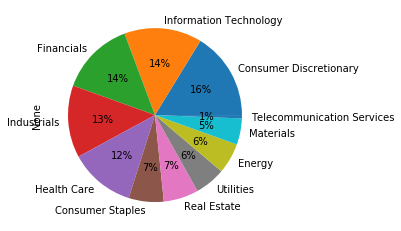
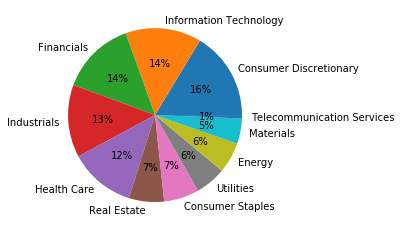
Edited conclusion and analysis method

diff --git a/_posts/2020-03-28-Sentiment Analysis as a Trading Indicator.md b/_posts/2020-03-28-Sentiment Analysis as a Trading Indicator.md
@@ -19,7 +19,6 @@ Let's begin by getting some of the imports we need:
 ```python
 import pandas as pd
 import matplotlib.pyplot as plt
-from datetime import datetime
 ```
 
 The S&P data is in a .csv file, so we can import it and take a look using Pandas quite easily:
@@ -31,7 +30,7 @@ print(sp.shape)
 sp.head(5)
 ```
 
-    (492, 3)
+    (489, 3)
 
 
 
@@ -106,35 +105,37 @@ Let's see what sectors comprise the S&P:
 print(sp['Sector'].value_counts(normalize=True))
 ```
 
-    Consumer Discretionary        0.162602
-    Information Technology        0.144309
-    Financials                    0.138211
-    Industrials                   0.134146
-    Health Care                   0.121951
-    Consumer Staples              0.065041
-    Real Estate                   0.065041
-    Utilities                     0.056911
-    Energy                        0.056911
-    Materials                     0.048780
-    Telecommunication Services    0.006098
+    Consumer Discretionary        0.163599
+    Information Technology        0.141104
+    Financials                    0.139059
+    Industrials                   0.134969
+    Health Care                   0.122699
+    Real Estate                   0.065440
+    Consumer Staples              0.065440
+    Utilities                     0.057260
+    Energy                        0.057260
+    Materials                     0.047035
+    Telecommunication Services    0.006135
     Name: Sector, dtype: float64
 
 
 
 ```python
 sector_counts = pd.value_counts(sp['Sector'].values, sort=True)
-sector_counts.plot.pie(autopct='%.0f%%')
+sector_pie = sector_counts.plot.pie(autopct='%.0f%%')
+sector_pie.set_ylabel('')
 ```
 
 
 
 
-    <matplotlib.axes._subplots.AxesSubplot at 0x7fac57fe2bd0>
+    Text(0, 0.5, '')
 
 
 
 
-![](/images/output_8_1.png)
+![png](/images/output_8_1.png)
+
 
 I've normalised the values and we can see that consumer discretionary based companies are leading (at the time of this data), with 16% of the S&P 500 being companies in that sector.
 
@@ -468,18 +469,18 @@ def determineSentiment(title):
     pol_score['news_text'] = title
     results.append(pol_score)
 
-    ## Check the compound result of the analysis,
-    ## the tolerances have been manually skewed to negative by me
+    ## Check the compound result of the analysis
+    ## Tolerances are near mirrors of those used in academia (though more sensitive to negativity)
     compound = results[0]['compound']
     if compound >= 0.05:
         return 'Positive'
-    elif compound >= 0.00 and compound < 0.05:
+    elif compound >= -0.02 and compound < 0.05:
         return 'Neutral'
-    elif compound < -0.00:
+    elif compound < -0.02:
         return 'Negative'
 ```
 
-### Now let's pass in some titles and see how it classifies them:
+Now let's pass in some titles and see how it classifies them:
 
 
 ```python
@@ -501,8 +502,8 @@ print("Title: \"{}\" has sentiment: {} \n".format(negative_title, determineSenti
     
 
 
-__As you can see from the three above examples, it is capable of identifying particularly clear sentiment.
-However, it isn't too good with the nuances of financial language as it is not context aware:__
+As you can see from the three above examples, it is capable of identifying particularly clear sentiment.
+However, it isn't too good with the nuances of financial language as it is not context aware:
 
 
 ```python
@@ -513,7 +514,7 @@ print("Title: \"{}\" has sentiment: {}".format(unclear_title, determineSentiment
     Title: "The Gap Inc. (GPS): These Hedge Funds Caught Flat-Footed" has sentiment: Neutral
 
 
-### Now let's modify our sentiment analysis function to begin checking batches of news:
+Now let's modify our sentiment analysis function to begin checking batches of news:
 
 
 ```python
@@ -536,7 +537,7 @@ def determineSentiment(title):
     return results[0]['compound']
 ```
 
-__And let's create a function to compile the sentiment of all news for a given ticker:__
+And let's create a function to compile the sentiment of all news for a given ticker:
 
 
 ```python
@@ -551,6 +552,7 @@ def generateSentimentDict(ticker):
     for article in articles:
         sentiment = determineSentiment(article)
         
+        #if sentiment >= 0.05 or sentiment <= -0.05:
         # Determine the date that the article was published on
         row_with_date = news_info.loc[news_info['title'] == article]
         date = row_with_date['date'][0]
@@ -564,16 +566,8 @@ def generateSentimentDict(ticker):
     return daily_sentiment
 ```
 
-## Defining and Backtesting the Strategy
-Our initial strategy will be simple and non-robust:
-
-1. If the news of the _day_ is positive: go long
-2. If the news of the _day_ is negative: go short
-3. If the news of the _day_ is neutral: go short
-
-Due to the constraints of our news source, we can only do a _very_ short backtest of ~30 days.
-
-It's worth noting that any trade is executed on the next candle's open as opposed to the current candle's close. This is to prevent any accidental trading on information that shouldn't yet be visible.
+## Investigating the Trends
+Now it's time to gather all of our combined data and begin to plot and investigate things further.
 
 First let's generate a dictionary of the news sentiment for the last month in regards to the Boeing Company (BA):
 
@@ -586,129 +580,132 @@ print(boeing_sentiment)
     {'2020-03-10': 0.5574, '2020-03-17': -0.3182, '2020-03-23': -1.0513, '2020-03-11': 0.5994, '2020-03-06': 0.0, '2020-03-12': -0.296, '2020-03-18': -0.6249, '2020-03-21': 0.6597, '2020-03-03': 0.296, '2020-03-20': 0.296, '2020-03-15': 0.0, '2020-03-16': 0.0, '2020-03-24': 0.0, '2020-03-04': -0.0258, '2020-03-05': 0.0, '2020-03-26': 0.34, '2020-03-25': 0.1796, '2020-02-27': 0.0}
 
 
-We'll be using the above data in our backtest below:
+We can now plot the sentiment as a time series:
 
 
 ```python
-from backtesting import Backtest, Strategy
+# Sort items from dict in ascending time and plot
+date,sentiment = zip(*sorted(boeing_sentiment.items()))
+plt.xticks(rotation=45)
+plt.plot(date,sentiment)
+```
+
+
+
+
+    [<matplotlib.lines.Line2D at 0x7f73eb37d7d0>]
+
+
+
+
+![png](/images/output_34_1.png)
+
+
+Let's plot Boeing's share price:
+
+
+```python
 from datetime import datetime
 
-class SentimentStrategy(Strategy):
-    daily_sentiment = {'2020-03-10': 0.5574, '2020-03-17': -0.3182, '2020-03-23': -1.0513, '2020-03-11': 0.5994, '2020-03-06': 0.0, '2020-03-12': -0.296, '2020-03-18': -0.6249, '2020-03-21': 0.6597, '2020-03-03': 0.296, '2020-03-20': 0.296, '2020-03-15': 0.0, '2020-03-16': 0.0, '2020-03-24': 0.0, '2020-03-04': -0.0258, '2020-03-05': 0.0, '2020-03-26': 0.34, '2020-03-25': 0.1796, '2020-02-27': 0.0}
-    
-    def init(self):
-        self.day_sentiment = daily_sentiment.get(datetime.today().strftime('%Y-%m-%d'), 0.00)
-
-    def next(self):
-        if self.day_sentiment >= 0.05:
-            self.buy()
-        elif self.day_sentiment >= 0.00 and self.day_sentiment < 0.05:
-            self.sell()
-        elif self.day_sentiment < -0.00:
-            self.sell()
-
 # Pull in our 20 day pricing information earlier compiled
-conn = sqlite3.connect('equities.db')
-stock_info = pd.read_sql_query("SELECT * FROM equities_daily", conn)
+stock_info = pd.read_sql_query("SELECT date, close FROM equities_daily WHERE ticker == 'BA'", eq_db)
 
-# Convert the date to the datetime format for backtesting.py compatibility
+# Convert the date to the datetime format for plotting
 stock_info['date'] = pd.to_datetime(stock_info['date'], format="%Y/%m/%d")
-stock_info = stock_info.set_index('date')
 
-# Rename columns for backtesting.py compatibility
-stock_info.rename(columns={'open': 'Open', 'close': 'Close', 'high': 'High', 'low': 'Low', 'volume': 'Volume'}, inplace=True)
-
-# Initialize the backtest with the stock data and a tradable balance of 100,000
-# as well as a commission of 2% per trade to imitate broker's fees
-BA = stock_info.loc[stock_info['ticker'] == 'BA']
-bt = Backtest(BA, SentimentStrategy, cash=100000, commission=.002)
-
-output = bt.run()
-bt.plot()
+date = stock_info['date']
+price = stock_info['close']
+plt.xticks(rotation=45)
+plt.plot(date, price, color='red')
 ```
 
-![](/images/BAPlot.png)
+
+
+
+    [<matplotlib.lines.Line2D at 0x7f73eb228710>]
 
 
 
 
+![png](/images/output_36_1.png)
 
 
-
-
-
-
-<div class="bk-root" id="7a5eade3-1021-4ca9-a599-e920a06eadd8" data-root-id="35801"></div>
-
-
-
-
-
-As you can see above, we closed with a portfolio value of 107% (107,000). The strategy peaked at a 238% portfolio value but then lost most of its gains in the final few days.
-
-# Analysis
-
-Let's get a more detailed text output:
+Now let's overlay the two time series:
 
 
 ```python
-print(output)
+# Pull in our 20 day pricing information earlier compiled
+date = stock_info['date']
+date = date.iloc[1:]
+price = stock_info['close']
+price = price.iloc[1:]
+
+# Convert sentiment from unordered dict to datetime ordered dataframe
+sentiment_df = pd.DataFrame(boeing_sentiment.items(), columns=['date', 'sentiment'])
+sentiment_df = sentiment_df.sort_values(by='date', ascending=False)
+sentiment = sent_pd['sentiment']
+
+fig, ax1 = plt.subplots()
+
+color = 'tab:red'
+ax1.set_xlabel('Date')
+ax1.set_ylabel('Share Price', color=color)
+ax1.plot(date, price, color=color)
+ax1.tick_params(axis='y', labelcolor=color)
+ax1.tick_params(axis='x', labelrotation=45)
+
+ax2 = ax1.twinx()
+
+color = 'tab:blue'
+ax2.set_ylabel('News Sentiment', color=color)
+ax2.plot(date, sentiment, color=color)
+ax2.tick_params(axis='y', labelcolor=color)
+
+fig.tight_layout()
+plt.show()
 ```
 
-    Start                     2020-03-02 00:00:00
-    End                       2020-03-26 00:00:00
-    Duration                     24 days 00:00:00
-    Exposure [%]                          91.6667
-    Equity Final [$]                       107494
-    Equity Peak [$]                        237912
-    Return [%]                            7.49384
-    Buy & Hold Return [%]                 37.5843
-    Max. Drawdown [%]                    -54.8178
-    Avg. Drawdown [%]                    -16.9545
-    Max. Drawdown Duration        6 days 00:00:00
-    Avg. Drawdown Duration        4 days 00:00:00
-    # Trades                                   16
-    Win Rate [%]                            68.75
-    Best Trade [%]                        24.1394
-    Worst Trade [%]                      -27.3482
-    Avg. Trade [%]                        1.21602
-    Max. Trade Duration           3 days 00:00:00
-    Avg. Trade Duration           2 days 00:00:00
-    Expectancy [%]                        10.6519
-    SQN                                  0.128186
-    Sharpe Ratio                        0.0836319
-    Sortino Ratio                        0.106932
-    Calmar Ratio                         0.022183
-    _strategy                   SentimentStrategy
-    dtype: object
+
+![png](/images/output_38_0.png)
 
 
-Straight away the backtesting framework uses _all available capital_ on each trade, thus our exposure was an eye watering 91.66%.
+Interestingly, there seems to be a common trend between the two data sets.
 
-So we can see are average __win rate was 68.75%__, with an __average trade gaining 1.21%__.
-'Buy & Hold Return \[%\]' is assuming either holding long _or_ short. In this case it would have been a far better return to simply short Boeing's stock.
+However, there seems to be a strange spike in sentiment between 2020-03-17 and 2020-03-21.
+
+After delving into the sentiment values generated in the dictionary above we can see that on 2020-03-21 the sentiment was 0.6597 and on 2020-03-20 it was 0.296.
+
+Let's find those titles:
 
 
-The Sharpe ratio also reads quite poorly on this strategy.
+```python
+news_info_ba = news_info.loc['BA']
+print(news_info_ba.loc[news_info_ba['date'] == '2020-03-20']['title'][0])
+print(news_info_ba.loc[news_info_ba['date'] == '2020-03-21']['title'][0])
+```
 
+    Boeing halts dividend, share buyback program amid coronavirus pandemic - MarketWatch
+    Outside the Box: Coronavirus bailouts are coming: Here’s the smart way to help businesses and workers
+
+
+_"Boeing halts dividend, share buyback program amid coronavirus pandemic - MarketWatch"_
+* This is questionable in sentiment, although marked as strongly positive. In reality I'd argue this is negative as a halting of dividends indicates a poor cash situation.
+
+_"Outside the Box: Coronavirus bailouts are coming: Here’s the smart way to help businesses and workers"_
+* This seems like an opinion piece, and after further investigation it is. It's a positive sentiment but not clearly relevant. 
 
 
 # Conclusion
-I've ran similar backtests on Amazon (AMZN), Google (GOOG), CVS Health (CVS), and General Electric (GE) with the results as follows:
 
-* __AMZN Return: -7.31%__ (Buy & Hold return of 0.07%)
-* __GOOG Return: 8.91%__ (Buy & Hold (Short) return of 16.36%)
-* __CVS Return: 7.32%__ (Buy & Hold (Short) return of 8.93%)
-* __GE Return: 17.30%__ (Buy & Hold (Short) return of 27.56%)
+It would seem that there is indeed use in analysing news as a trading indicator. However I do not think it should be the only factor when considering a trade.
 
-Overall it seems to be able to make a profit during this period (__profiting in 4 of its 5 chosen stocks__), but fails to beat the return of simply shorting or going long on the selected stocks. 
+If those two articles were removed from the dataset we'd end up with a nearly perfect overlap of our lines. However manually intervening would be a poor choice as it would be impractical in a production system. This problem should really be fixed by using a better sentiment analysis method.
 
-__However, you could argue that it is a "safer" method of trading in the current market volatility.__
 
 There's many ways to improve on this:
 
-* The backtest was during one of the most volatile markets we've had in many months/years
-* The backtest was a very small period in length
+* The analysis was during one of the most volatile markets we've had in many months/years
+* The analysis was a very small period in length (~ one month)
 * VADER is optimized for the sentiment of Tweets, not financial news headlines
 * News is generally lagging with respect to the price, and __markets may not always respond to the news how we think they might__
 
@@ -719,3 +716,8 @@ To train such a model would require a considerable amount of __labeled__ data, w
 As well as that, I think this strategy could work if paired with other signals to determine a longer term sentiment. Perhaps a modified turtle strategy that uses news as one of its' indicators, only trading when the sentiment is positive for multiple consecutive days (or vice versa).
 
 __Thanks for reading!__
+
+
+```python
+
+```
